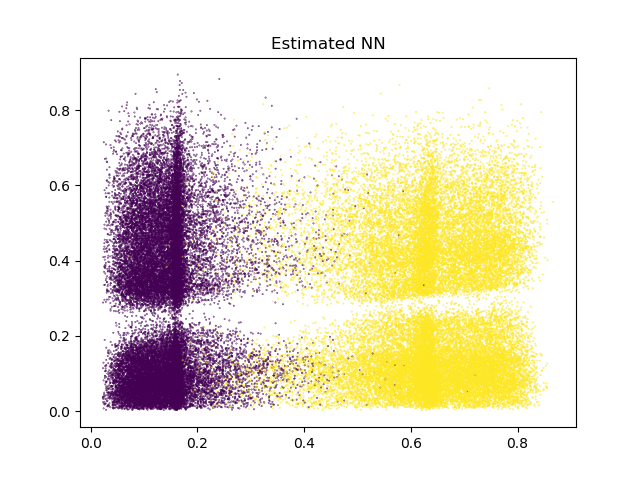
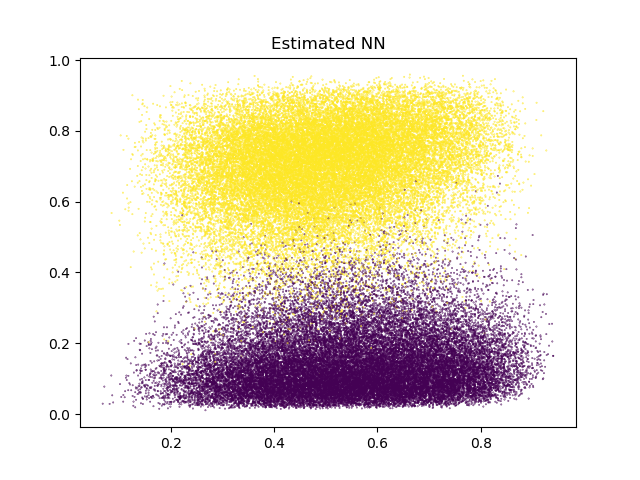
mmd autoencoder random autoencoder added.

diff --git a/Rscripts/PhenographLevin13/MMD_Artificial data generation.py b/Rscripts/PhenographLevin13/MMD_Artificial data generation.py
@@ -1,6 +1,6 @@
 import tensorflow as tf
 from sklearn.neighbors import NearestNeighbors
-from tensorflow.keras.layers import Input, Dense
+from tensorflow.keras.layers import Input, Dense, Lambda
 from tensorflow.keras.models import Model
 from tensorflow.keras import backend as K
 import numpy as np
@@ -70,8 +70,8 @@ K.set_session(sess)
 
 nn=30
 ###########################################################
-# g) add regularization by VAE
-model_name = 'Estimated NN_MMD'
+# g) add regularization by determenistic MMD
+model_name = 'Estimated NN_MMD_Adaptive'
 #split data into train and test
 (x_train, neib) = (noisy_clus, neibALL)
 #nn_lbls = np.array([item for item in lbls for i in range(nn)]).astype(int)
@@ -97,7 +97,7 @@ x_decoded_mean = decoder_mean(h_decoded)
 # adding MMD
 #analytical estimate of MMD from https://arxiv.org/pdf/1901.03227.pdf
 # When CodeNorm is not used , set adaptive = True
-def smmd(z_mean, scale =1./8., adaptive = False):
+def smmd(z_mean, scale =1./8., adaptive = True):
     nf = tf.cast( tf.shape(z_mean)[0], "float32")
     latent_dim = tf.cast( tf.shape(z_mean)[1] , "float32")
 
@@ -154,7 +154,7 @@ ae_nnMMD.summary()
 ae_nnMMD.compile(optimizer='adam', loss=custom_loss, metrics=[mean_square_error_NN, custom_loss])
 
 
-history_DAEnnMMD= ae_nnMMD.fit([X_train, neib_train], X_train, epochs=5000,
+history_DAEnnMMD= ae_nnMMD.fit([X_train, neib_train], X_train, epochs=1000,
                       shuffle=True,
                       validation_data=([X_test, neib_test], X_test),
                 verbose=1, batch_size=256)
@@ -201,3 +201,151 @@ plt.show();
 fig2 = plt.figure();
 bx = sns.violinplot(data= decoded_bulbs[lbls_test==cl , :], bw = bw);
 plt.show();
+
+###########################################################
+# g) add regularization by random MMD
+model_name = 'Estimated NN_MMD_Adaptive_random_encoder'
+#split data into train and test
+(x_train, neib) = (noisy_clus, neibALL)
+#nn_lbls = np.array([item for item in lbls for i in range(nn)]).astype(int)
+X_train, X_test,  neib_train, neib_test, lbls_train, lbls_test, ort_train, ort_test,  weight_neib_train, weight_neib_test \
+    = train_test_split(x_train, neib, lbls, np.concatenate((cl1_ort_dist,cl2_ort_dist)), neib_weight, test_size=0.33, random_state=42)
+
+# create model and train
+k=nn;original_dim=30;intermediate_dim=15; latent_dim = 2
+k_neib = Input(shape = (k, original_dim, ))
+#var_dims = Input(shape = (original_dim,))
+#weight_neib = Input(shape=(k,))
+x = Input(shape=(original_dim,))
+h = Dense(intermediate_dim, activation=act)(x)
+#h.set_weights(ae.layers[1].get_weights())
+z_mean =  Dense(latent_dim, name='z_mean')(h)
+z_log_var = Dense(latent_dim, name='z_log_var')(h)
+
+epsilon_std = 0.1
+def sampling(args):
+    z_mean, z_log_var = args
+    epsilon = K.random_normal(shape=(K.shape(z_mean)[0], latent_dim), mean=0.,
+                              stddev=epsilon_std)
+    return z_mean + K.exp(z_log_var / 2) * epsilon
+
+
+# note that "output_shape" isn't necessary with the TensorFlow backend
+z = Lambda(sampling, output_shape=(latent_dim,))([z_mean, z_log_var])
+
+# we instantiate these layers separately so as to reuse them later
+decoder_h = Dense(intermediate_dim, activation=act)
+decoder_mean = Dense(original_dim, activation='linear')
+h_decoded = decoder_h(z)
+x_decoded_mean = decoder_mean(h_decoded)
+
+# adding MMD
+#analytical estimate of MMD from https://arxiv.org/pdf/1901.03227.pdf
+# When CodeNorm is not used , set adaptive = True
+def smmd(z, scale =1./8., adaptive = True):
+    nf = tf.cast( tf.shape(z)[0], "float32")
+    latent_dim = tf.cast( tf.shape(z)[1] , "float32")
+
+    norms2 = tf.reduce_sum(tf.square( z ), axis =1, keepdims = True )
+    dotprods = tf.matmul(z , z , transpose_b = True )
+    dists2 = norms2 + tf.transpose( norms2 ) - 2. * dotprods
+    if adaptive :
+        mean_norms2 = tf.reduce_mean( norms2 )
+        gamma2 = tf.stop_gradient( scale * mean_norms2 )
+    else :
+        gamma2 = scale * latent_dim
+
+    variance = ( gamma2 /(2.+ gamma2 ) )**latent_dim + \
+                ( gamma2 /(4.+ gamma2 ) )**( latent_dim /2.) - \
+                2.*( gamma2**2./((1.+ gamma2 )*(3.+ gamma2 ) ) )**( latent_dim /2.)
+    variance = 2. * variance /( nf *( nf -1.) )
+    variance_normalization = ( variance )**( -1./2.)
+
+    Ekzz = ( tf.reduce_sum( tf.exp( - dists2 /(2.* gamma2 ) ) ) - nf ) /(( nf * nf - nf ) )
+    Ekzn = ( gamma2 /(1.+ gamma2 ) ) **( latent_dim /2.) *\
+        tf.reduce_mean ( tf.exp( - norms2 /(2.*(1.+ gamma2 ) ) ) )
+    Eknn = ( gamma2 /(2.+ gamma2 ) ) **( latent_dim /2.)
+
+    return variance_normalization *( Ekzz - 2.* Ekzn + Eknn )
+'''
+def mean_square_error_NN(y_true, y_pred):
+    # dst = K.mean(K.square((neib - K.expand_dims(y_pred, 1)) / (tf.expand_dims(cut_neib,1) + 1)), axis=-1)
+    dst = K.mean(K.square((neib - K.expand_dims(y_pred, 1))), axis=-1)
+    weightedN = k * original_dim * K.dot(dst,
+                                         K.transpose(weight_neib))  # not really a mean square error after we done this
+    # return 0.5 * (tf.multiply(weightedN, 1/SigmaTsq))
+    #return  tf.multiply(weightedN, 0.5 * normSigma * (1/SigmaTsq) )
+    return tf.multiply(weightedN, 0.5)
+'''
+Kones = K.ones((nn,original_dim))
+def mean_square_error_NN(y_true, y_pred):
+    dst = K.mean(K.square((k_neib - K.expand_dims(y_pred, 1))) , axis=-1)
+    weightedN = K.dot(dst, Kones)
+    #return 0.5 * (tf.multiply(weightedN, 1/SigmaTsq))
+    return  tf.multiply(weightedN, 0.5 )
+
+def custom_loss(x, x_decoded_mean):
+    msew = mean_square_error_NN(x, x_decoded_mean)
+    loss_mmd = smmd(z, scale = 10. , adaptive = False )
+    #print(K.shape(loss_mmd))
+    #return msew +  1 * contractive()
+    return 0.01*loss_mmd  + msew
+
+
+ae_nnMMD = Model(inputs=[x, k_neib], outputs=x_decoded_mean)
+ae_nnMMD.summary()
+#loss = custom_loss(x, x_decoded_mean, z_mean)
+#ae_nnMMD.compile(optimizer='adam', loss=custom_loss, metrics=[mean_square_error_NN,  custom_loss, smmd])
+ae_nnMMD.compile(optimizer='adam', loss=custom_loss, metrics=[mean_square_error_NN, custom_loss])
+
+
+history_DAEnnMMD= ae_nnMMD.fit([X_train, neib_train], X_train, epochs=1000,
+                      shuffle=True,
+                      validation_data=([X_test, neib_test], X_test),
+                verbose=1, batch_size=256)
+plt.plot(history_DAEnnMMD.history['loss'][50:])
+plt.plot(history_DAEnnMMD.history['val_loss'][50:])
+plt.title('Model loss')
+plt.ylabel('Loss')
+plt.xlabel('Epoch')
+plt.legend(['Train', 'Test'], loc='upper right')
+plt.show()
+
+encoderDAEnnMMD = Model([x, k_neib], z_mean, name='encoder')
+print(encoderDAEnnMMD.summary())
+decoderDAEnnMMD = ae_nnMMD
+print(decoderDAEnnMMD.summary())
+
+encoded_bulbs = encoderDAEnnMMD.predict([X_test, neib_test])
+decoded_bulbs = decoderDAEnnMMD.predict([X_test, neib_test])
+#encoded_bulbs = encoderDAEnn.predict([X_train, neib_train])
+#decoded_bulbs = decoderDAEnn.predict([X_train, neib_train])
+fig0 = plt.figure();
+plt.scatter(encoded_bulbs[:,0], encoded_bulbs[:,1], c = lbls_test, s=0.1)
+plt.title(model_name)
+plt.show()
+figDist = plt.figure();
+plt.scatter(encoded_bulbs[:,0], encoded_bulbs[:,1], c = ort_test, s=0.1,
+            cmap='viridis')
+plt.colorbar()
+plt.title(model_name)
+plt.show()
+plt.savefig(os.getcwd() + '/plots/' + model_name  +  'ort_dist_bulbs.png')
+
+figSave0 = plt.figure()
+plt.scatter(encoded_bulbs[:,0], encoded_bulbs[:,1], c=lbls_test, s = 0.5)
+plt.title(model_name)
+plt.savefig(os.getcwd() + '/plots/' + model_name  +  '_bulbs.png')
+# now plot decoded bulbs co-dimensions in input and output data:
+#input:
+cl=1;bw=0.2
+fig1 = plt.figure();
+ax = sns.violinplot(data= X_test[lbls_test==cl , :], bw = bw);
+plt.show();
+#output:
+fig2 = plt.figure();
+bx = sns.violinplot(data= decoded_bulbs[lbls_test==cl , :], bw = bw);
+plt.show();
+
+
+

diff --git a/Rscripts/PhenographLevin13/MultiClusterDataGeneration.py b/Rscripts/PhenographLevin13/MultiClusterDataGeneration.py
@@ -15,34 +15,73 @@ import h5py
 from sklearn.preprocessing import MinMaxScaler
 from joblib import Parallel, delayed
 from pathos import multiprocessing
+
 num_cores = multiprocessing.cpu_count()
 pool = multiprocessing.Pool(num_cores)
+
+
 def table(labels):
     unique, counts = np.unique(labels, return_counts=True)
     print('%d %d', np.asarray((unique, counts)).T)
     return {'unique': unique, 'counts': counts}
 
+
 lib = ctypes.cdll.LoadLibrary("./Clibs/perp.so")
 perp = lib.Perplexity
 perp.restype = None
 perp.argtypes = [ndpointer(ctypes.c_double, flags="C_CONTIGUOUS"),
-                ctypes.c_size_t, ctypes.c_size_t,
-                ndpointer(ctypes.c_double, flags="C_CONTIGUOUS"),
-                ctypes.c_double,  ctypes.c_size_t,
-                ndpointer(ctypes.c_double, flags="C_CONTIGUOUS"), #Sigma
-                ctypes.c_size_t]
+                 ctypes.c_size_t, ctypes.c_size_t,
+                 ndpointer(ctypes.c_double, flags="C_CONTIGUOUS"),
+                 ctypes.c_double, ctypes.c_size_t,
+                 ndpointer(ctypes.c_double, flags="C_CONTIGUOUS"),  # Sigma
+                 ctypes.c_size_t]
 
-import mdcgenpy
-n_cl=10
+from mdcgenpy import clusters
+from mdcgenpy.clusters import distributions
 
-python -m pip install pip==9.0.3
+unif_d = clusters.distributions.get_dist_function('uniform')
+n_cl = 2
+dims = 30
+# generate signatures, 'ones' are denoting 'meaninful dimensions', 'zeroes' - noise
+sig1 = np.concatenate((np.zeros(25), np.ones(5)), axis=0)
+sig2 = np.concatenate((np.ones(5), np.zeros(25)), axis=0)
+sig3 = np.concatenate((np.zeros(10), np.ones(5), np.zeros(15)), axis=0)
+sig4 = np.concatenate((np.zeros(15), np.ones(5), np.zeros(10)), axis=0)
+sig5 = np.concatenate((np.zeros(20), np.ones(5), np.zeros(5)), axis=0)
+sig6 = np.concatenate((np.zeros(5), np.ones(5), np.zeros(20)), axis=0)
 
+cl1_center = np.zeros(dims)
+cl2_center = np.concatenate((np.ones(20), np.zeros(10)), axis=0)
+
+# generate functions for input of data-generating function
+ncl1 = ncl2 = 1
+
+
+def cl1(shape, param):
+    return cl1_center + np.concatenate([np.zeros((shape, 20)), np.random.uniform(low=-param, high=param, size=(shape, 10))],
+                                       axis=1)
+
+
+def cl2(shape, param):
+    return cl2_center + np.concatenate([np.random.uniform(low=-param, high=param, size=(shape, 10)), np.zeros((ncl2, 20))],
+                                       axis=1)
+
+
+distributions_list = [cl1, cl2]
+compactness_factor_list = [1, 1]
+cluster_gen = clusters.ClusterGenerator(pseed=10, n_samples=2000, n_feats=dims, k=n_cl, min_samples=100,
+                                        possible_distributions=None, distributions=distributions_list, mv=True,
+                                        corr=0.0, compactness_factor=compactness_factor_list, alpha_n=1, scale=None,
+                                        outliers=0, rotate=False, add_noise=0, n_noise=None,
+                                        ki_coeff=3.0)
+# Get tuple with a numpy array with samples and another with labels
+data, labels = cluster_gen.generate_data()
 
 # two subspace clusters centers
 original_dim = 30
 cl1_center = np.zeros(original_dim)
-cl2_center = np.concatenate((np.ones(20),  np.zeros(10)), axis=0 )
-ncl1 =ncl2=100000
+cl2_center = np.concatenate((np.ones(20), np.zeros(10)), axis=0)
+ncl1 = ncl2 = 100000
 '''
 cl1_center = np.zeros(original_dim)
 cl2_center = np.concatenate((np.ones(20),  np.zeros(10)), axis=0 )
@@ -176,13 +215,18 @@ dill.load_session(filepath)
 outfile = './data/ArtBulbz.npz'
 npzfile = np.load(outfile)
 lbls = npzfile['lbls'];
-Idx=npzfile['Idx']; cl1=npzfile['cl1']; cl2=npzfile['cl2']; noisy_clus=npzfile['noisy_clus'];
-lbls=npzfile['lbls'];  Dist=npzfile['Dist']; cl1_noisy_nn =npzfile['cl1_noisy_nn'];
-cl2_noisy_nn=npzfile['cl2_noisy_nn'];
-cl1_noisy =npzfile['cl1_noisy'];
-cl2_noisy=npzfile['cl2_noisy'];
-cl1_ort_dist=npzfile['cl2_ort_dist'];
-cl2_ort_dist=npzfile['cl2_ort_dist'];
-neibALL=npzfile['neibALL']
-neib_weight= npzfile['neib_weight']
+Idx = npzfile['Idx'];
+cl1 = npzfile['cl1'];
+cl2 = npzfile['cl2'];
+noisy_clus = npzfile['noisy_clus'];
+lbls = npzfile['lbls'];
+Dist = npzfile['Dist'];
+cl1_noisy_nn = npzfile['cl1_noisy_nn'];
+cl2_noisy_nn = npzfile['cl2_noisy_nn'];
+cl1_noisy = npzfile['cl1_noisy'];
+cl2_noisy = npzfile['cl2_noisy'];
+cl1_ort_dist = npzfile['cl2_ort_dist'];
+cl2_ort_dist = npzfile['cl2_ort_dist'];
+neibALL = npzfile['neibALL']
+neib_weight = npzfile['neib_weight']
 Sigma = npzfile['Sigma']
